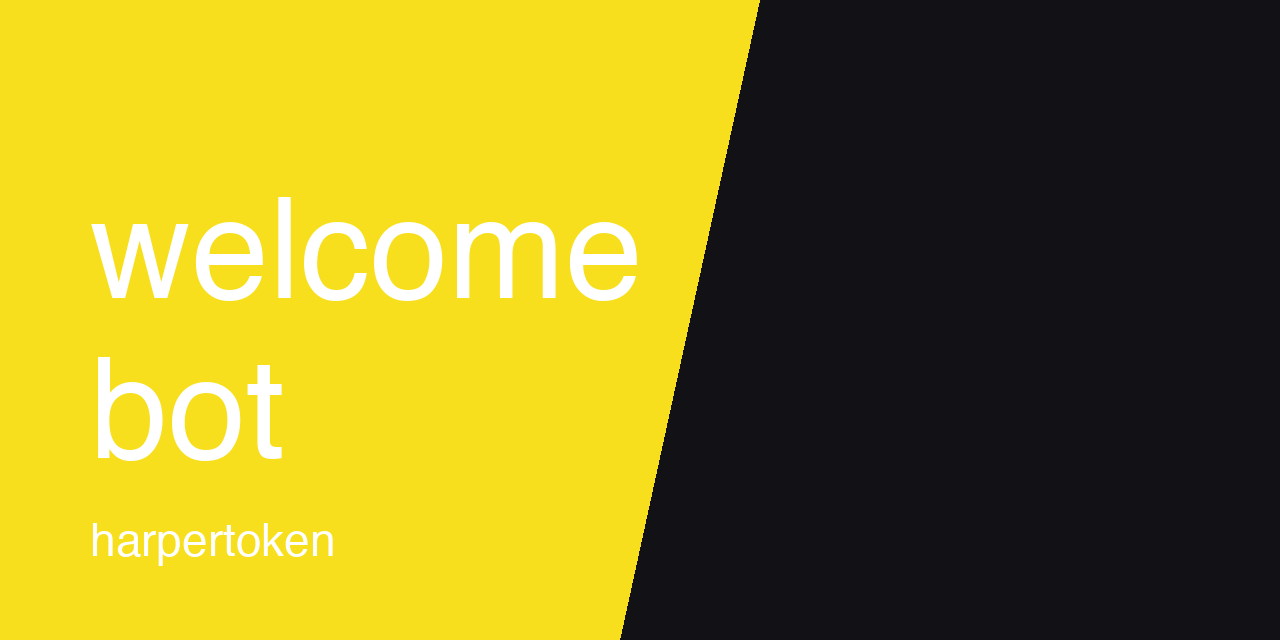
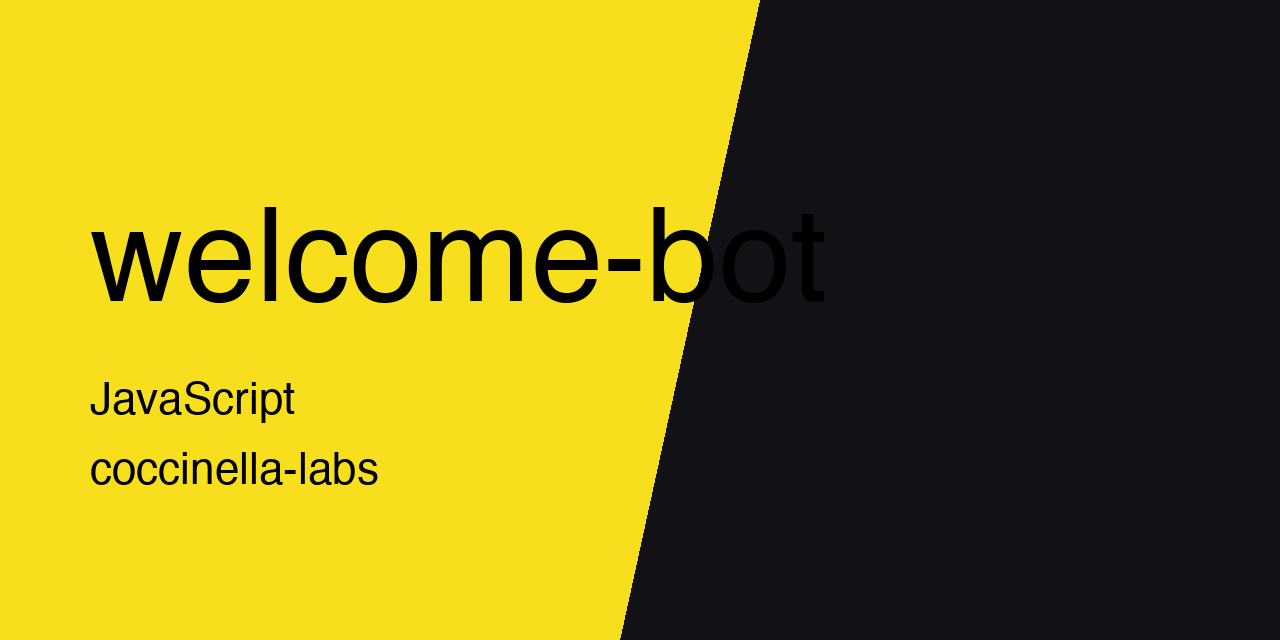
[docs] move thumbnail to coccinella-labs

Changed region(s): [[0.0625, 0.3125, 0.5625, 0.4688], [0.0625, 0.5625, 0.3125, 0.7812], [0.0625, 0.8125, 0.25, 0.875]]

diff --git a/README.md b/README.md
@@ -1,5 +1,5 @@
 <p align="center">
-  <img src="https://raw.githubusercontent.com/harpertoken/welcome-bot/main/.github/assets/thumbnail.png" alt="welcome-bot" width="100%">
+  <img src="https://raw.githubusercontent.com/Coccinella-Labs/welcome-bot/main/.github/assets/thumbnail.png" alt="welcome-bot" width="100%">
 </p>
 
 # welcome-bot
